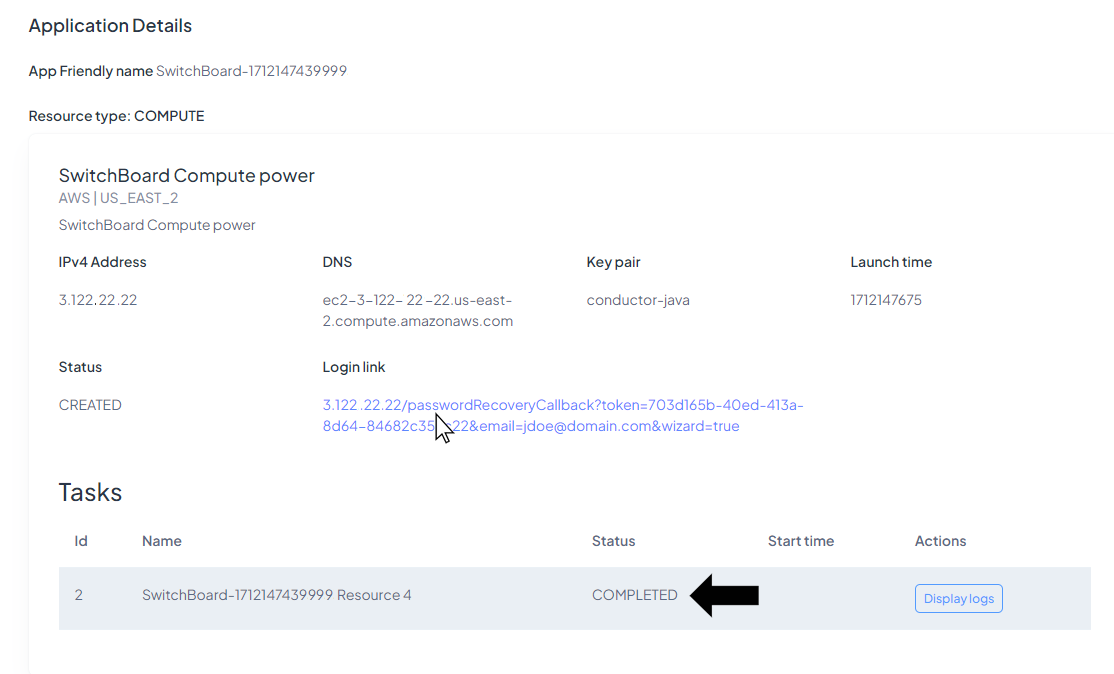
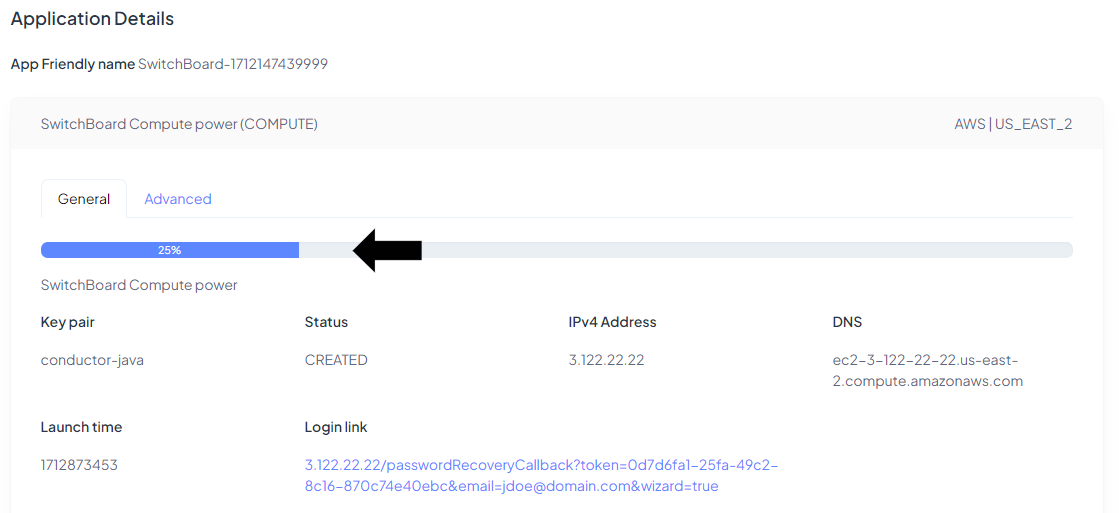
Launch intance Updates

diff --git a/docs/launch.md b/docs/launch.md
@@ -55,9 +55,16 @@ Select the necessary integrations before launching the new instance. Integration
 ![Screenshot: Launch Switchboard Cloud Application](./../images/launch_step7.png)
 
 
-The instance will take about _20 minutes_ to reach the `COMPLETED` status. Once the process is finished you can access it from the **login link**.
+It will take about 2 minutes before you see any progress in the progress bar.
+
 
 ![Screenshot: Launch Switchboard Cloud Application](./../images/launch_step8.png)
+
+
+The instance will take about _20 minutes_ to reach the `COMPLETED` status. Once the process is finished you can access it from the **login link**.
+
+
+![Screenshot: Launch Switchboard Cloud Application](./../images/launch_step8_2.png)
 
 
 Welcome to the set-up wizard of your new telephone application. Set a login password for your Administrator user.
